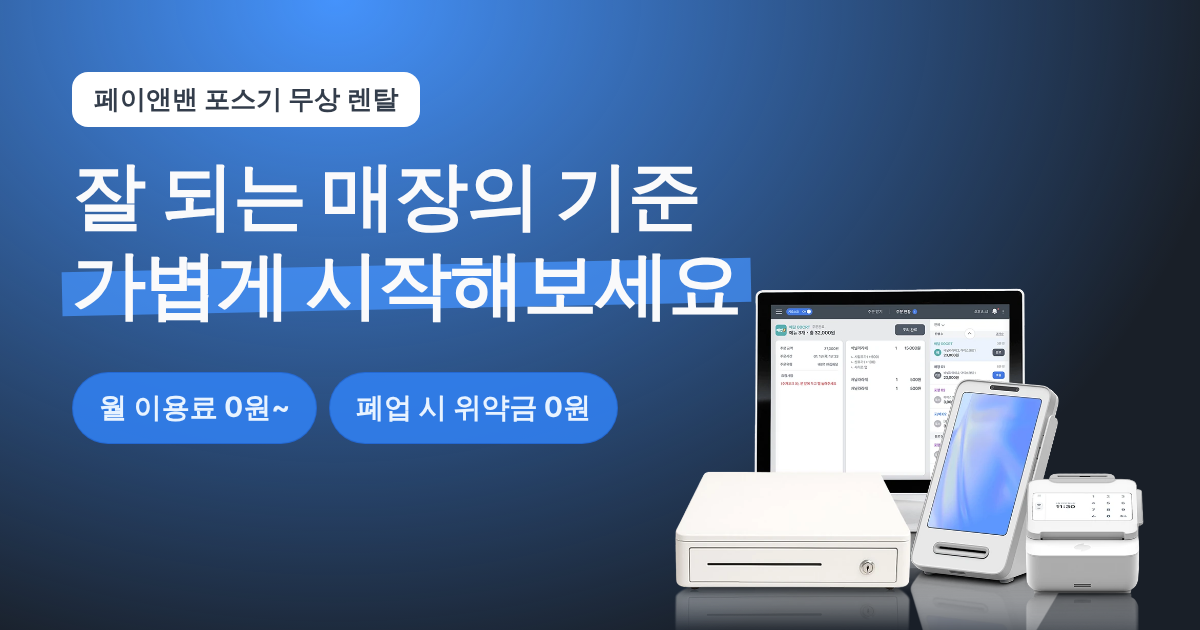
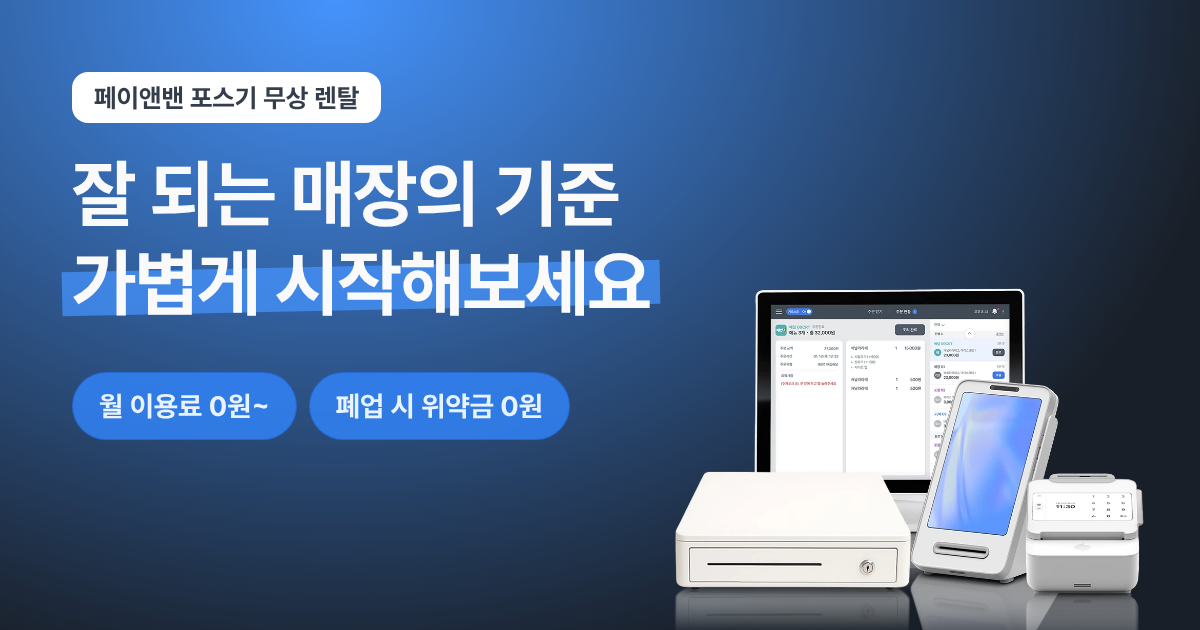
OG 이미지 폰트 수정: Pretendard 로 다시 제작 (?v=2)
이전 이미지는 제작 환경에서 웹폰트를 받지 못해 기본 시스템 글꼴로 찍혀 있었습니다.
카카오톡 등이 예전 이미지를 계속 쓰지 않도록 ?v= 를 올렸습니다.

Claude-Session: https://claude.ai/code/session_01C77V6q76FV6uoJ8mnyc34H

Changed region(s): [[0.0617, 0.2413, 0.6475, 0.5127], [0.0617, 0.573, 0.5242, 0.7238], [0.0617, 0.0905, 0.37, 0.2111]]

diff --git a/public/index.html b/public/index.html
@@ -19,12 +19,12 @@
     <meta property="og:site_name" content="페이앤밴" />
     <meta property="og:title" content="잘 되는 매장의 기준, 가볍게 시작해보세요 | 페이앤밴 포스기 무상 렌탈" />
     <meta property="og:description" content="월 이용료 0원~ · 폐업 시 위약금 0원 · 대용량 포스. 포스기 세트 무상 렌탈 상담" />
-    <meta property="og:image" content="https://poss-rental.netlify.app/assets/images/og/og-image.png?v=1" />
+    <meta property="og:image" content="https://poss-rental.netlify.app/assets/images/og/og-image.png?v=2" />
     <meta property="og:image:width" content="1200" />
     <meta property="og:image:height" content="630" />
     <meta property="og:image:alt" content="잘 되는 매장의 기준 가볍게 시작해보세요 — 포스기 세트 무상 렌탈" />
     <meta name="twitter:card" content="summary_large_image" />
-    <meta name="twitter:image" content="https://poss-rental.netlify.app/assets/images/og/og-image.png?v=1" />
+    <meta name="twitter:image" content="https://poss-rental.netlify.app/assets/images/og/og-image.png?v=2" />
 
     <link rel="icon" href="/assets/icons/favicon.svg" type="image/svg+xml" />
 
